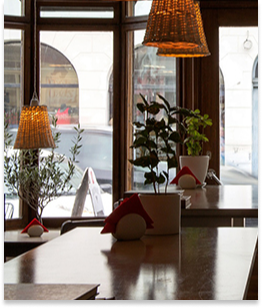
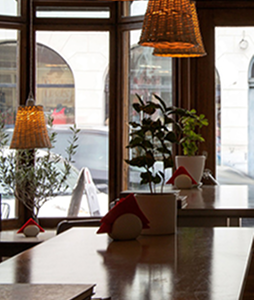
Add sections dishes, promo, menu

diff --git a/styles/main.css b/styles/main.css
@@ -120,7 +120,6 @@
     background-size: cover;
     background-position: center top;
     background-repeat: no-repeat;
-    min-height: 100vh;
     height: 700px;
     margin-top: 10px;
     display: flex;
@@ -142,13 +141,14 @@
 .hero__subtitle {
     color: var(--color-accent);
     font-family: var(--font-secondary);
-    font-size: 50px;
+    font-size: clamp(18px, 2.5vw, 50px);
 }
 
 .hero__title {
+    font-weight: 400;
     color: var(--color-accent);
     font-family: var(--font-secondary);
-    font-size: 80px;
+    font-size: clamp(36px, 5vw, 80px);
     line-height: 1.1;
 }
 
@@ -289,6 +289,10 @@
     flex-shrink: 0;
 }
 
+.about__image{
+    box-shadow: 0 2px 35px rgba(0, 0, 0, 0.3);
+}
+
 .about__image-1 {
     position: absolute;
     top: 60px;
@@ -318,4 +322,230 @@
     height: 380px;
     background-color: #FFE8D0;
     z-index: 0;
+}
+
+.promo{
+    background-color: var(--color-black);
+    margin-top: 100px;
+}
+
+.promo__inner {
+    background-image: url('../images/apricot-pie-mint.png');
+    background-size: cover;
+    background-position: center;
+    height: 360px;
+    position: relative;
+}
+
+.promo__inner::before {
+    content: "";
+    position: absolute;
+    inset: 0;
+    background-color: rgba(0, 0, 0, 0.85);
+}
+
+.promo__inner .container {
+    position: relative;
+    z-index: 1;
+    height: 100%;
+    display: flex;
+    align-items: center;
+    justify-content: space-between;
+}
+
+.promo__title {
+    font-family: var(--font-secondary);
+    font-size: 52px;
+    max-width: 600px;
+    color: var(--color-accent);
+    line-height: 1.2;
+    margin-bottom: 12px;
+}
+
+.promo__subtitle {
+    font-family: var(--font-primary);
+    font-size: 24px;
+    color: var(--color-white);
+    font-weight: 700;
+}
+
+.dishes{
+    margin-top: 55px;
+}
+
+.dishes .container{
+    display: flex;
+    flex-direction: column;
+    align-items: center;
+    gap: 70px;
+}
+
+.dishes__title{
+    font-family: var(--font-secondary);
+    font-size: 54px;
+    font-weight: 400;
+}
+
+.dishes__title-accent{
+    color: var(--color-accent);
+}
+
+.dishes__inner{
+    display: flex;
+    align-items: center;
+    gap: 30px;
+}
+
+.dishes__featured-img{
+    width: 445px;
+    object-fit: cover;
+    height: 480px;
+}
+
+.dishes__list{
+    display: flex;
+    gap: 30px;
+    flex: 1;
+    align-items: flex-start;
+    flex-direction: column;
+}
+
+.dish-item{
+    width: 100%;
+    display: flex;
+    align-items: center;
+    gap: 30px;
+}
+
+.dish-item-info {
+    display: flex;
+    align-items: center;
+    gap: 10px;
+    flex: 1;
+    width: 100%;
+    min-width: 0;
+}
+
+.dish-item__name{
+    white-space: nowrap;
+    font-family: var(--font-secondary);
+    font-weight: 400;
+    font-size: 26px;
+}
+
+.dish-item__dots {
+    width: 205px;
+    height: 1px;
+    border-bottom: 1px dashed var(--color-black);
+}
+
+.dish-item__price{
+    white-space: nowrap;
+    font-family: var(--font-secondary);
+    font-weight: 400;
+    font-size: 26px;
+}
+
+.menu {
+    margin-top: 150px;
+    background-image: url("../images/menu-banner.png");
+    background-size: cover;
+    background-position: center;
+    background-repeat: no-repeat;
+}
+
+.menu .container {
+    display: flex;
+    flex-direction: column;
+    gap: 50px;
+}
+
+.menu__title{
+    text-shadow: 2px 2px 8px rgba(0, 0, 0, 0.8);
+    margin-top: 10px;
+    text-align: center;
+    font-family: var(--font-secondary);
+    font-size: 54px;
+    color: var(--color-white);
+    font-weight: 400;
+}
+
+.menu__cards{
+    display: flex;
+    align-items: center;
+    justify-content: space-between;
+    padding-bottom: 100px;
+}
+
+.menu-card{
+    background-color: var(--color-white);
+    position: relative;
+    padding-top: 40px;
+}
+
+.menu-card__badge{
+    font-family: var(--font-primary);
+    font-size: 13px;
+    color: var(--color-black);
+    background: var(--color-accent);
+    padding: 7px 11px;
+    position: absolute;
+    top: 0;
+    left: 0;
+}
+
+.menu-card__img-wrapper {
+    position: relative;
+    display: flex;
+    justify-content: center;
+    padding: 20px 0;
+}
+
+.menu-card__img {
+    border-radius: 50%;
+    width: 200px;
+    height: 200px;
+    object-fit: cover;
+}
+
+.menu-card__price {
+    position: absolute;
+    bottom: 20px;
+    right: 50px;
+    width: 60px;
+    height: 60px;
+    border-radius: 50%;
+    background: var(--color-accent);
+    color: var(--color-white);
+    font-family: var(--font-primary);
+    border: 7px solid var(--color-white);
+    font-weight: 700;
+    font-size: 18px;
+    display: flex;
+    align-items: center;
+    justify-content: center;
+}
+
+.menu-card__name {
+    font-family: var(--font-secondary);
+    font-size: 26px;
+    font-weight: 400;
+    text-align: center;
+    padding: 0 20px;
+}
+
+.menu-card__description {
+    font-family: var(--font-primary);
+    font-size: 16px;
+    color: var(--color-black);
+    text-align: center;
+    padding: 10px 20px;
+}
+
+.menu-card__btn {
+    display: block;
+    text-align: center;
+    margin: 20px;
+    padding: 14px;
+    letter-spacing: 0.05em;
 }

diff --git a/index.html b/index.html
@@ -122,27 +122,121 @@
                 <img src="images/indian-food-buffet.png"
                      alt="Indian food buffet"
                      width="233"
-                     class="about__image-1"
+                     class="about__image-1 about__image"
                      height="300"
                      loading="lazy">
                 <img src="images/green-dessert.png"
                      alt="Green dessert"
                      width="255"
-                     class="about__image-2"
+                     class="about__image-2 about__image"
                      height="430"
                      loading="lazy">
                 <img src="images/restaurant-interior-view.png"
                      alt="Restaurant interior view"
                      width="254"
                      height="300"
-                     class="about__image-3"
+                     class="about__image-3 about__image"
                      loading="lazy">
-                <div class="about__image-4"></div>
+                <div class="about__image-4 about__image"></div>
             </div>
         </div>
 
     </section>
 
+    <section class="promo">
+        <div class="promo__inner">
+            <div class="container">
+                <div class="promo__left">
+                    <h2 class="promo__title">Celebrate at one of the best restaurants.</h2>
+                    <p class="promo__subtitle">This month only: business lunches starting at $250</p>
+                </div>
+                <div class="promo__right">
+                    <a href="#" class="btn btn--orange">RESERVE A TABLE</a>
+                </div>
+            </div>
+        </div>
+    </section>
+
+    <section class="dishes">
+        <div class="container">
+            <h2 class="dishes__title">Our <span class="dishes__title-accent">Dishes</span></h2>
+            <div class="dishes__inner">
+                <img src="images/pizza.png" alt="Pizza" class="dishes__featured-img">
+                <ul class="dishes__list">
+                    <li class="dish-item">
+                        <img src="images/burger.png" alt="Burger" class="dish-item__img">
+                        <div class="dish-item-info">
+                            <span class="dish-item__name">American burger</span>
+                            <span class="dish-item__dots"></span>
+                            <span class="dish-item__price">310 $</span>
+                        </div>
+                    </li>
+                    <li class="dish-item">
+                        <img src="images/burger.png" alt="Burger" class="dish-item__img">
+                        <div class="dish-item-info">
+                            <span class="dish-item__name">American burger</span>
+                            <span class="dish-item__dots"></span>
+                            <span class="dish-item__price">217 $</span>
+                        </div>
+                    </li>
+                    <li class="dish-item">
+                        <img src="images/burger.png" alt="Burger" class="dish-item__img">
+                        <div class="dish-item-info">
+                            <span class="dish-item__name">American burger</span>
+                            <span class="dish-item__dots"></span>
+                            <span class="dish-item__price">330 $</span>
+                        </div>
+                    </li>
+                </ul>
+            </div>
+        </div>
+    </section>
+
+
+    <section class="menu">
+        <div class="container">
+            <h2 class="menu__title">Our menu</h2>
+            <div class="menu__cards">
+                <article class="menu-card">
+                    <span class="menu-card__badge">RECOMMENDED</span>
+                    <div class="menu-card__img-wrapper">
+                        <img src="images/burger-menu.png" alt="Burger"
+                             width="300px"
+                             height="231px"
+                             loading="lazy" class="menu-card__img">
+                        <span class="menu-card__price">420</span>
+                    </div>
+                    <h3 class="menu-card__name">Maxi Burger</h3>
+                    <p class="menu-card__description">The thickest possible layer of meat</p>
+                    <a href="#" class="btn btn--orange menu-card__btn">ORDER</a>
+                </article>
+                <article class="menu-card">
+                    <div class="menu-card__img-wrapper">
+                        <img src="images/burger-menu.png" alt="Burger"
+                             width="300px"
+                             height="231px"
+                             loading="lazy" class="menu-card__img">
+                        <span class="menu-card__price">420</span>
+                    </div>
+                    <h3 class="menu-card__name">Maxi Burger</h3>
+                    <p class="menu-card__description">The thickest possible layer of meat</p>
+                    <a href="#" class="btn btn--orange menu-card__btn">ORDER</a>
+                </article>
+                <article class="menu-card">
+                    <div class="menu-card__img-wrapper">
+                        <img src="images/burger-menu.png" alt="Burger"
+                             width="300px"
+                             height="231px"
+                             loading="lazy" class="menu-card__img">
+                        <span class="menu-card__price">420</span>
+                    </div>
+                    <h3 class="menu-card__name">Maxi Burger</h3>
+                    <p class="menu-card__description">The thickest possible layer of meat</p>
+                    <a href="#" class="btn btn--orange menu-card__btn">ORDER</a>
+                </article>
+            </div>
+        </div>
+    </section>
 </main>
 
 